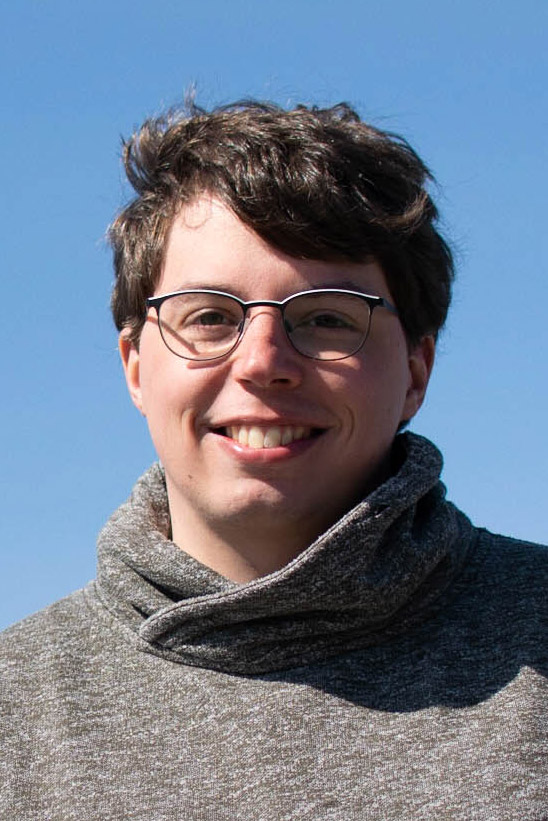
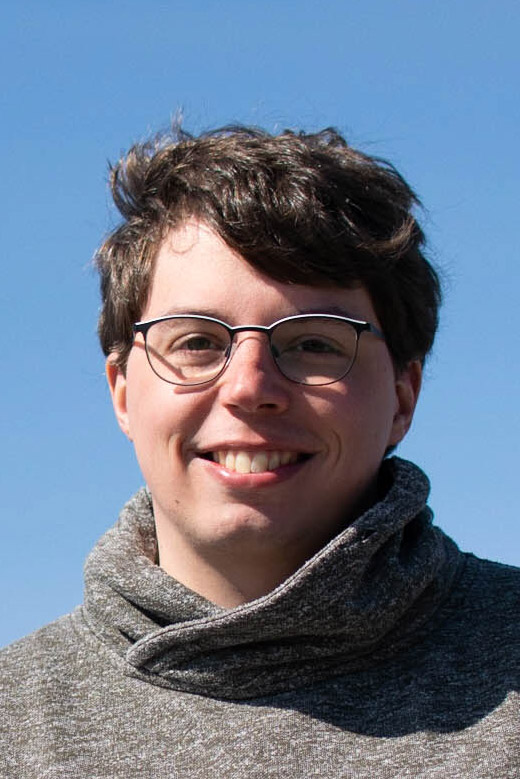
links + Tom's photo updated

diff --git a/index.html b/index.html
@@ -317,7 +317,7 @@
         <div class="row mb-5 justify-content-center text-center"  data-aos="fade-up">
           <div class="col-7 text-center  mb-5">
             <h2 class="section-title">Authors</h2>
-            <p class="lead">Who made PacketMill?</p>
+            <p class="lead">Who has made PacketMill?</p>
           </div>
         </div>
        
@@ -397,6 +397,7 @@
                   <!-- <a href="#"><span class="icon-facebook"></span></a> -->
                   <a href="https://people.kth.se/~maguire/" class="p-3"><span class="icon-globe"></span></a>
                   <a href="https://scholar.google.com/citations?user=HJgs_3YAAAAJ&hl=en" class="p-3"><span class="icon-google"></span></a>
+                  <a href="https://www.linkedin.com/in/gerald-q-maguire-jr-6365422/" class="p-3"><span class="icon-linkedin"></span></a>
                   <!-- <a href="#"><span class="icon-instagram"></span></a> -->
                 </div>
               </div>
@@ -416,6 +417,7 @@
                   <!-- <a href="#"><span class="icon-facebook"></span></a> -->
                   <a href="https://people.kth.se/~dejanko/" class="p-3"><span class="icon-globe"></span></a>
                   <a href="https://scholar.google.com/citations?user=LmqhRxkAAAAJ&hl=en" class="p-3"><span class="icon-google"></span></a>
+                  <a href="https://www.linkedin.com/in/dekostic/" class="p-3"><span class="icon-linkedin"></span></a>
                   <!-- <a href="#"><span class="icon-instagram"></span></a> -->
                 </div>
               </div>
